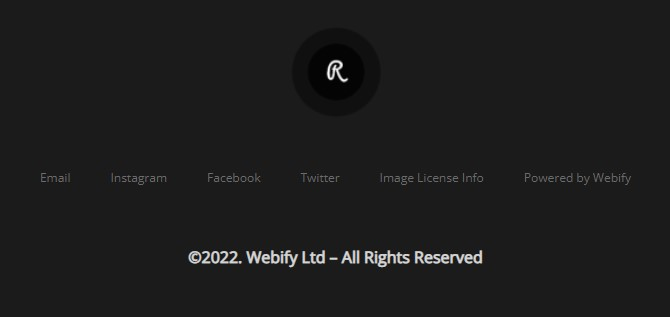
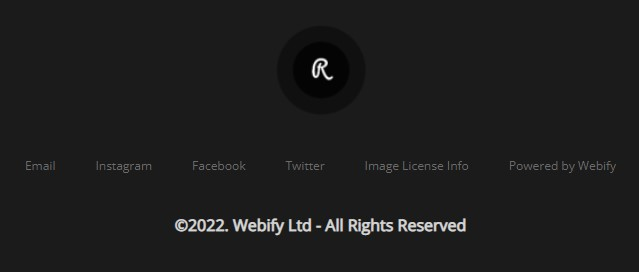
changing cmps thumbnails

diff --git a/src/js/temaplates-example/headers/header-wap-1.js b/src/js/temaplates-example/headers/header-wap-1.js
@@ -7,7 +7,7 @@ export const headerWap1 = {
   themePalette: 'primary',
   id: uuidv4(),
   //change to cloudinary
-  thumbnail: 'https://i.postimg.cc/vmFf4mMv/header1.png',
+  thumbnail: require('../../../assets/img/thumbnails/header/wap-header-1.jpg'),
   //each component will have his own css file
   style: {},
   cmps: [

diff --git a/src/js/temaplates-example/headers/header-wap-3.js b/src/js/temaplates-example/headers/header-wap-3.js
@@ -5,7 +5,7 @@ export const headerWap3 = {
   name: 'wap-header-3',
   themePalette: 'secondary',
   id: uuidv4(),
-  thumbnail: require('../../../assets/img/thumbnails/header/wap-header-3.png'),
+  thumbnail: require('../../../assets/img/thumbnails/header/wap-header-3.jpg'),
   style: {},
   cmps: [
     {

diff --git a/src/js/temaplates-example/footers/wap-footer-2.js b/src/js/temaplates-example/footers/wap-footer-2.js
@@ -6,7 +6,7 @@ export const wapFooter2 = {
   themePalette: 'primary',
   category: 'footer',
   id: uuidv4(),
-  thumbnail: 'https://i.postimg.cc/ryrV1WDH/wap-footer-1.png',
+  thumbnail: require('../../../assets/img/thumbnails/footer/wap-footer-2.jpg'),
   cmps: [
     {
       type: 'txt',
